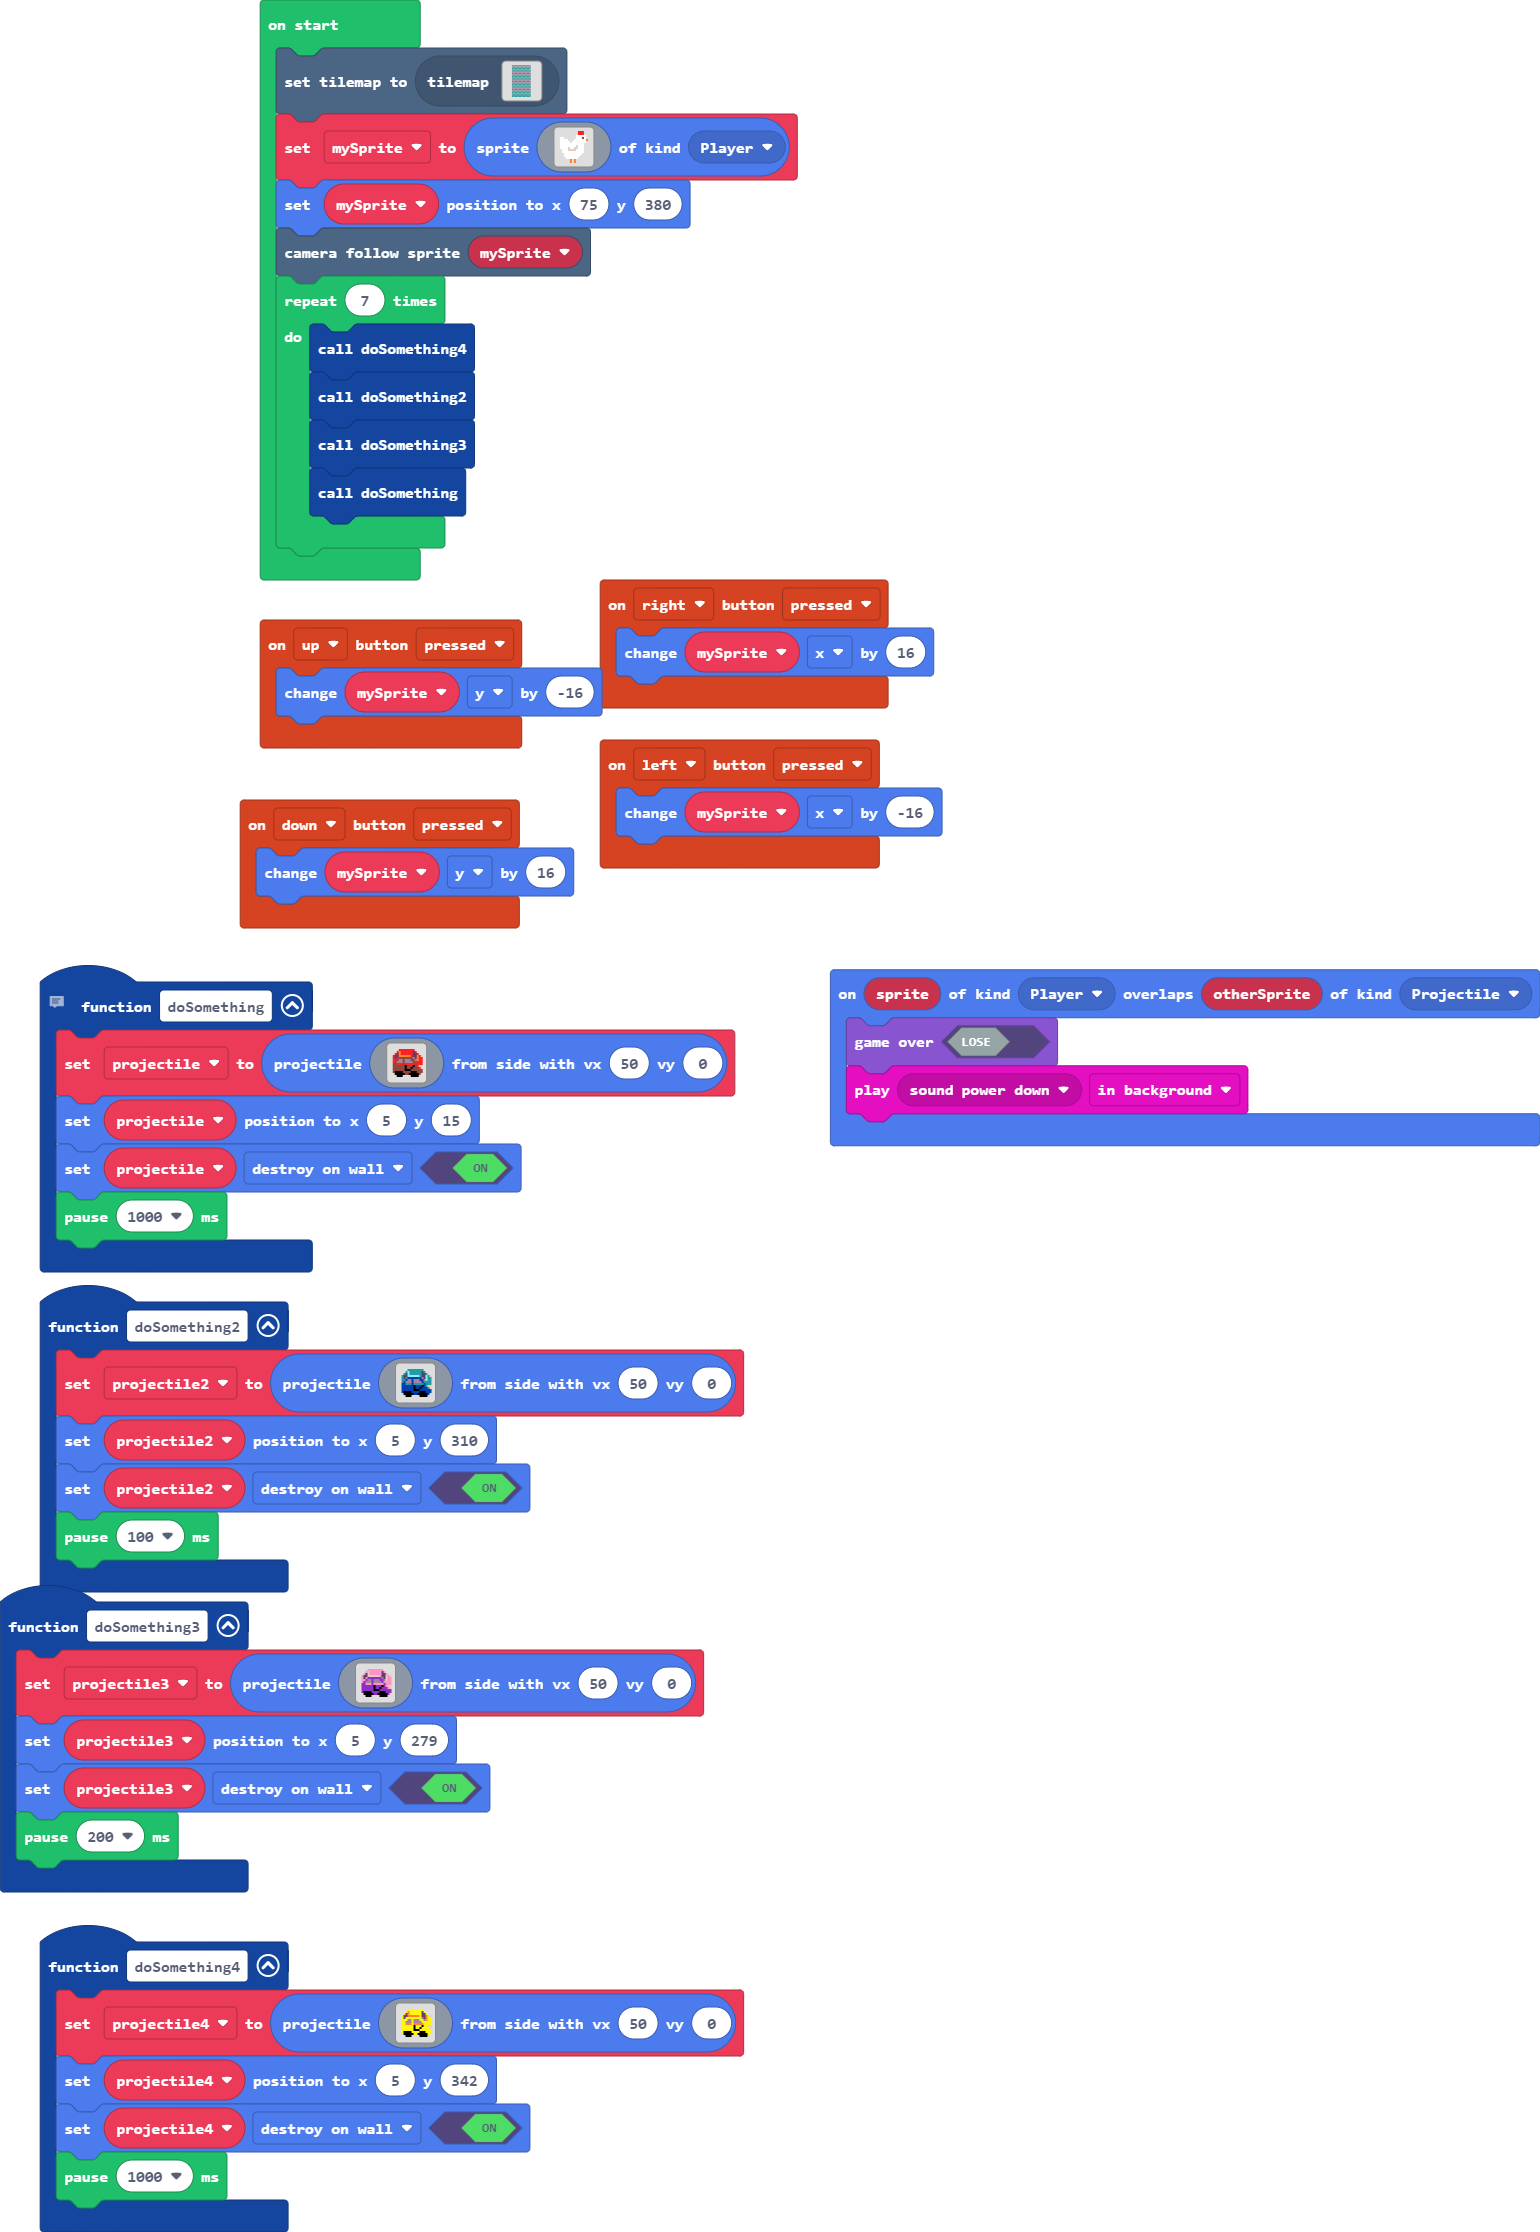
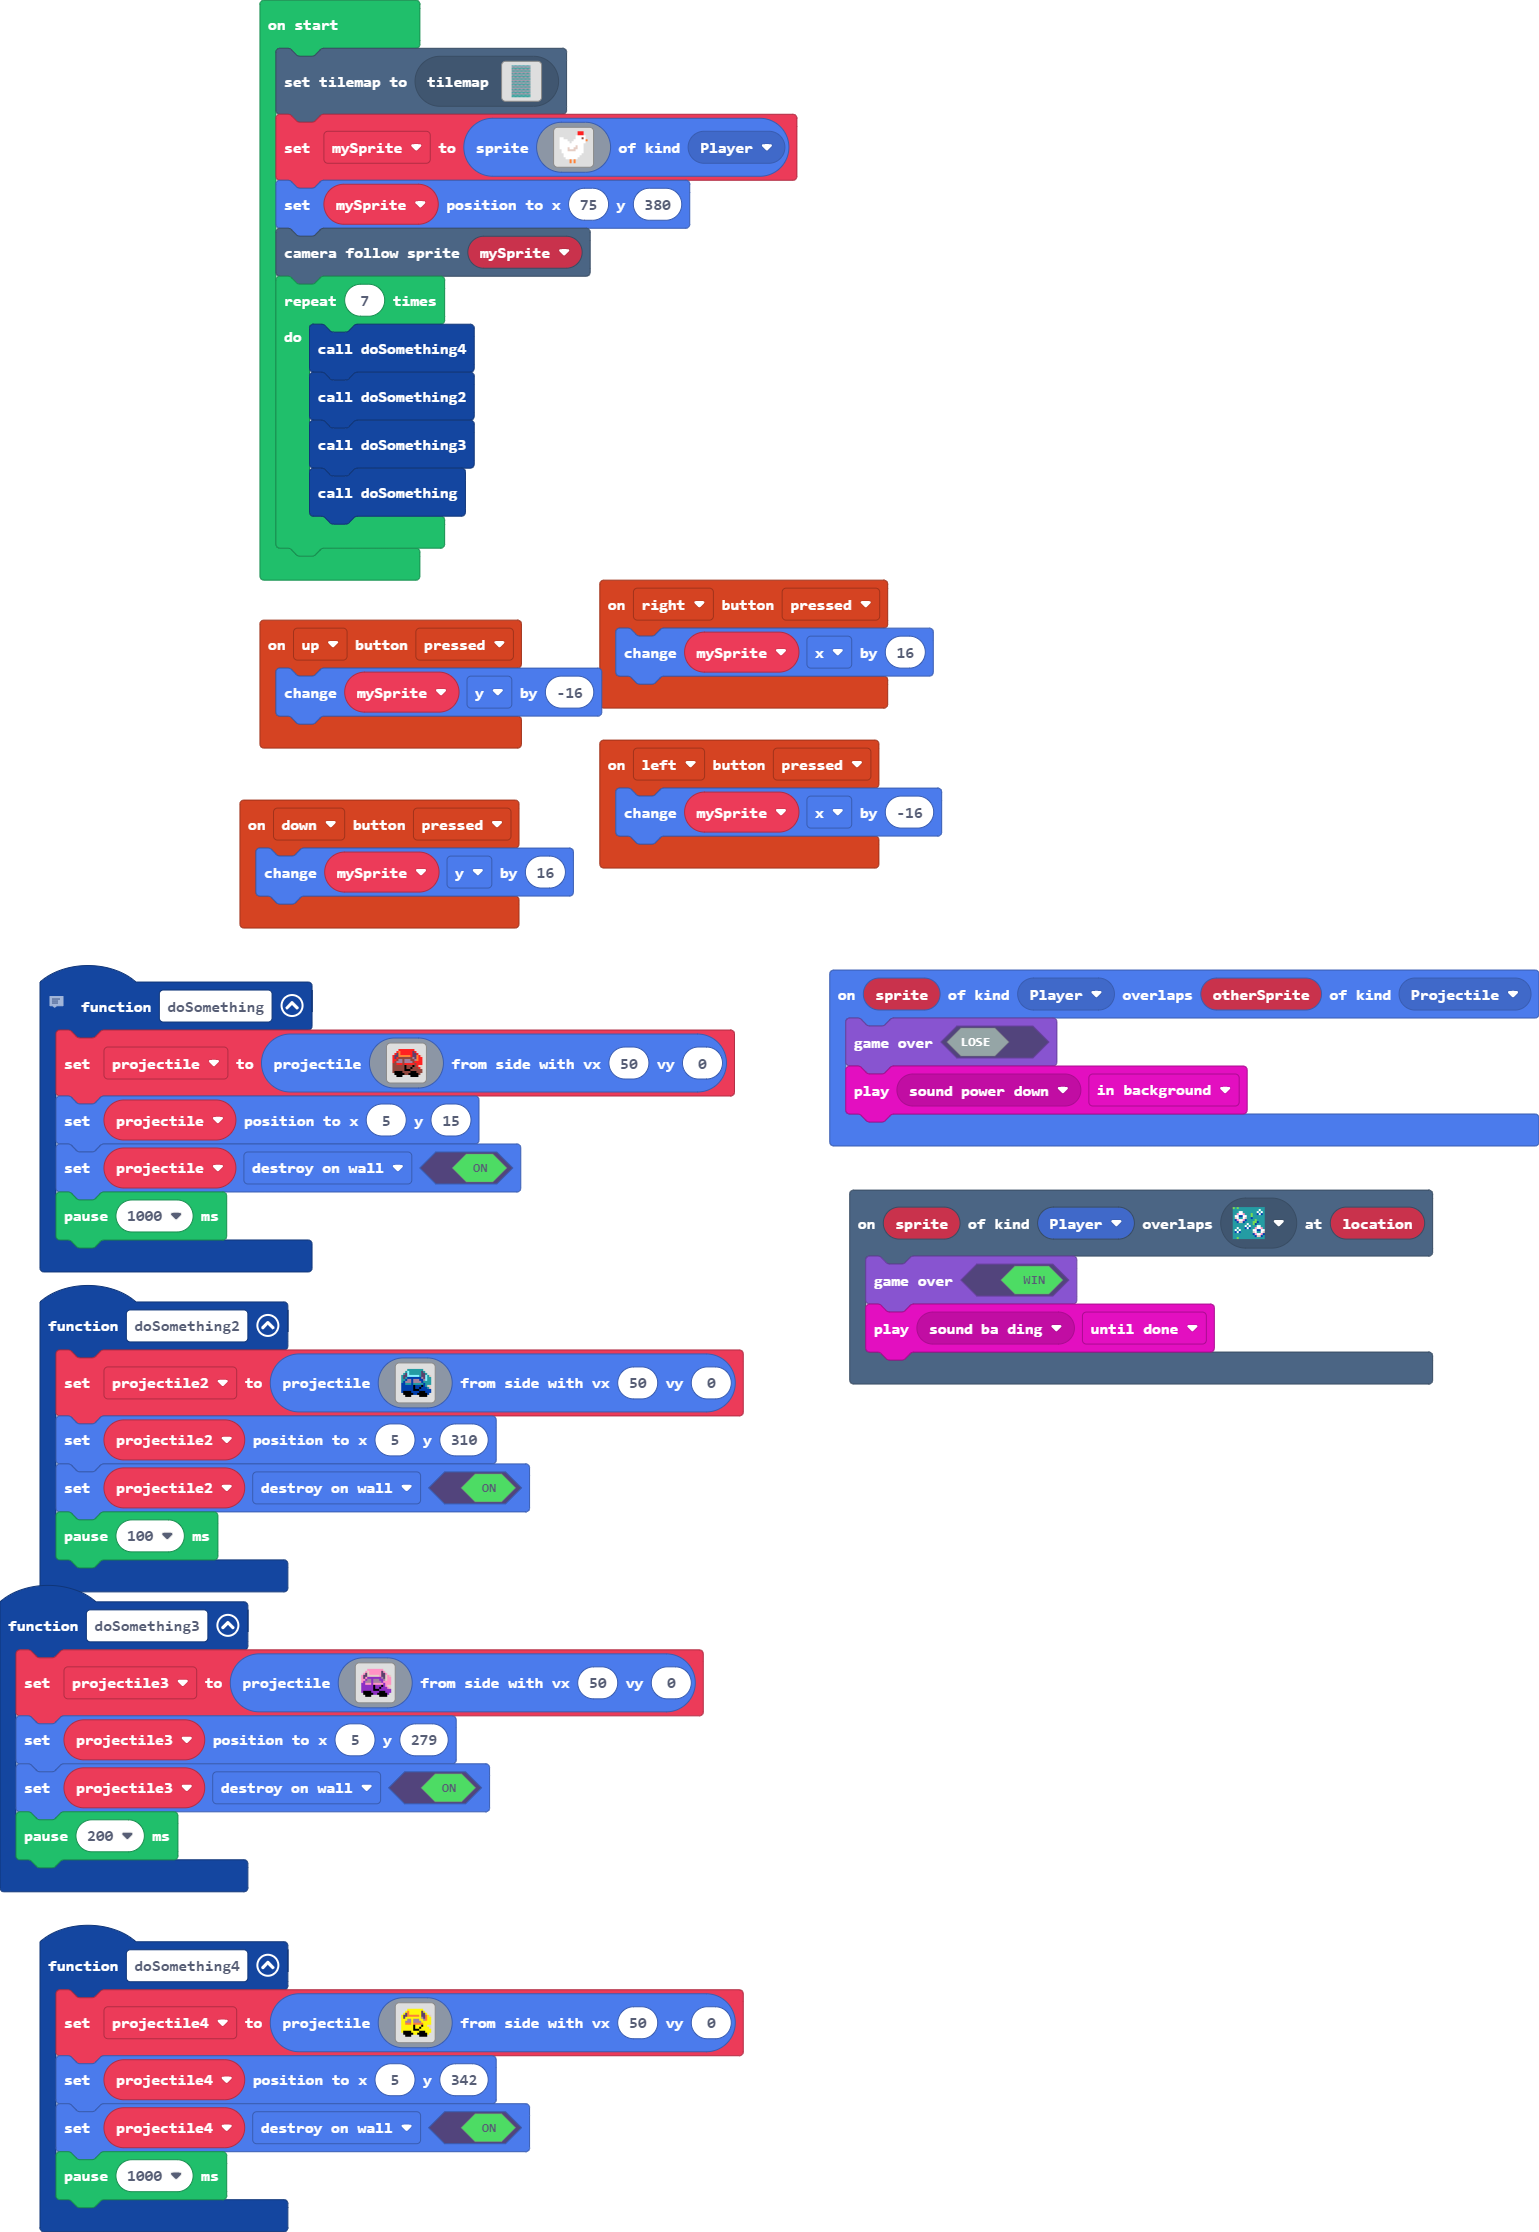
Update main.blocks, main.ts

diff --git a/main.ts b/main.ts
@@ -61,6 +61,10 @@ function doSomething () {
 controller.down.onEvent(ControllerButtonEvent.Pressed, function () {
     mySprite.y += 16
 })
+scene.onOverlapTile(SpriteKind.Player, sprites.castle.tileDarkGrass2, function (sprite, location) {
+    game.gameOver(true)
+    music.play(music.melodyPlayable(music.baDing), music.PlaybackMode.UntilDone)
+})
 function doSomething2 () {
     projectile2 = sprites.createProjectileFromSide(img`
         . . . . . . . . . . . . . . . . 
